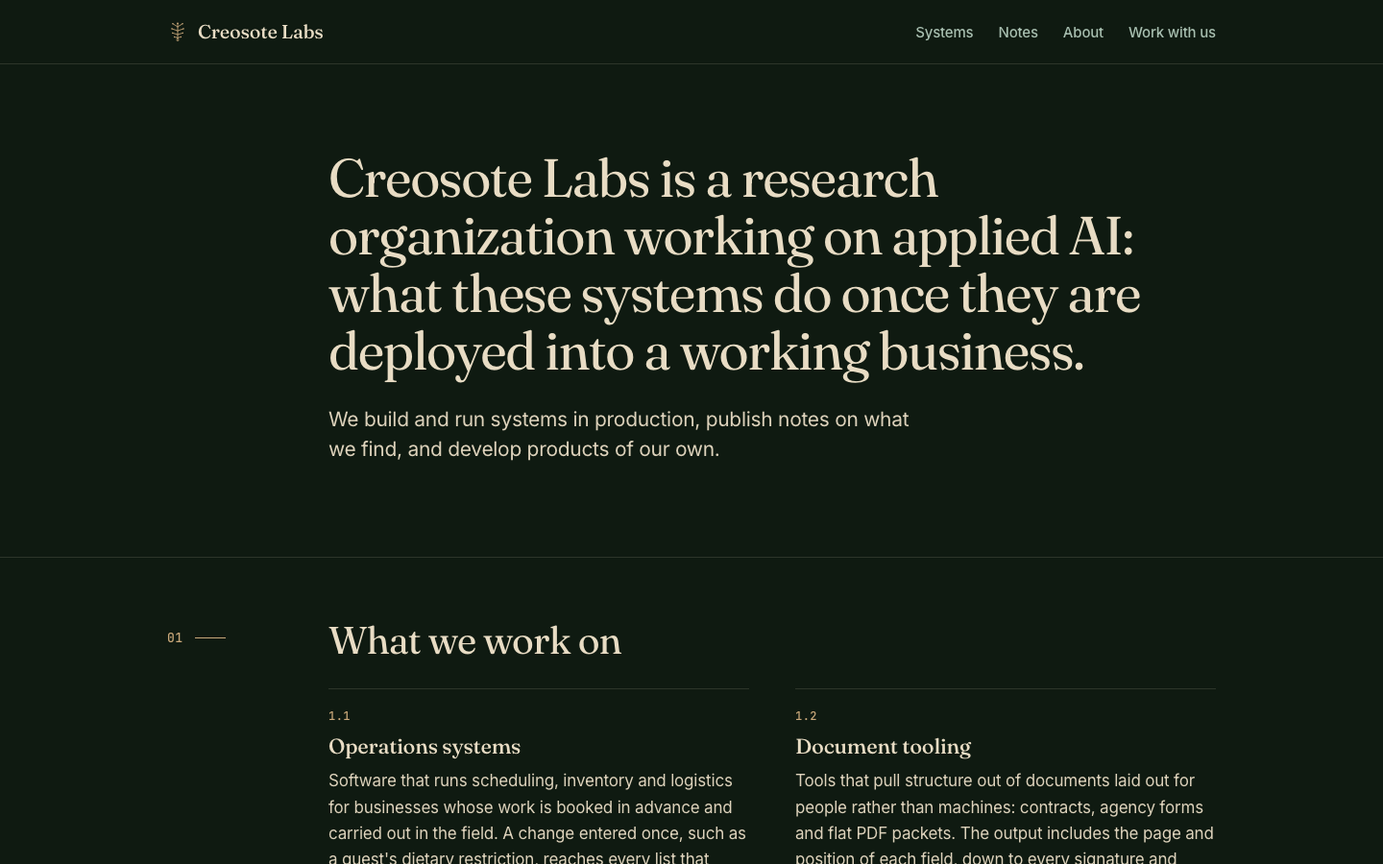
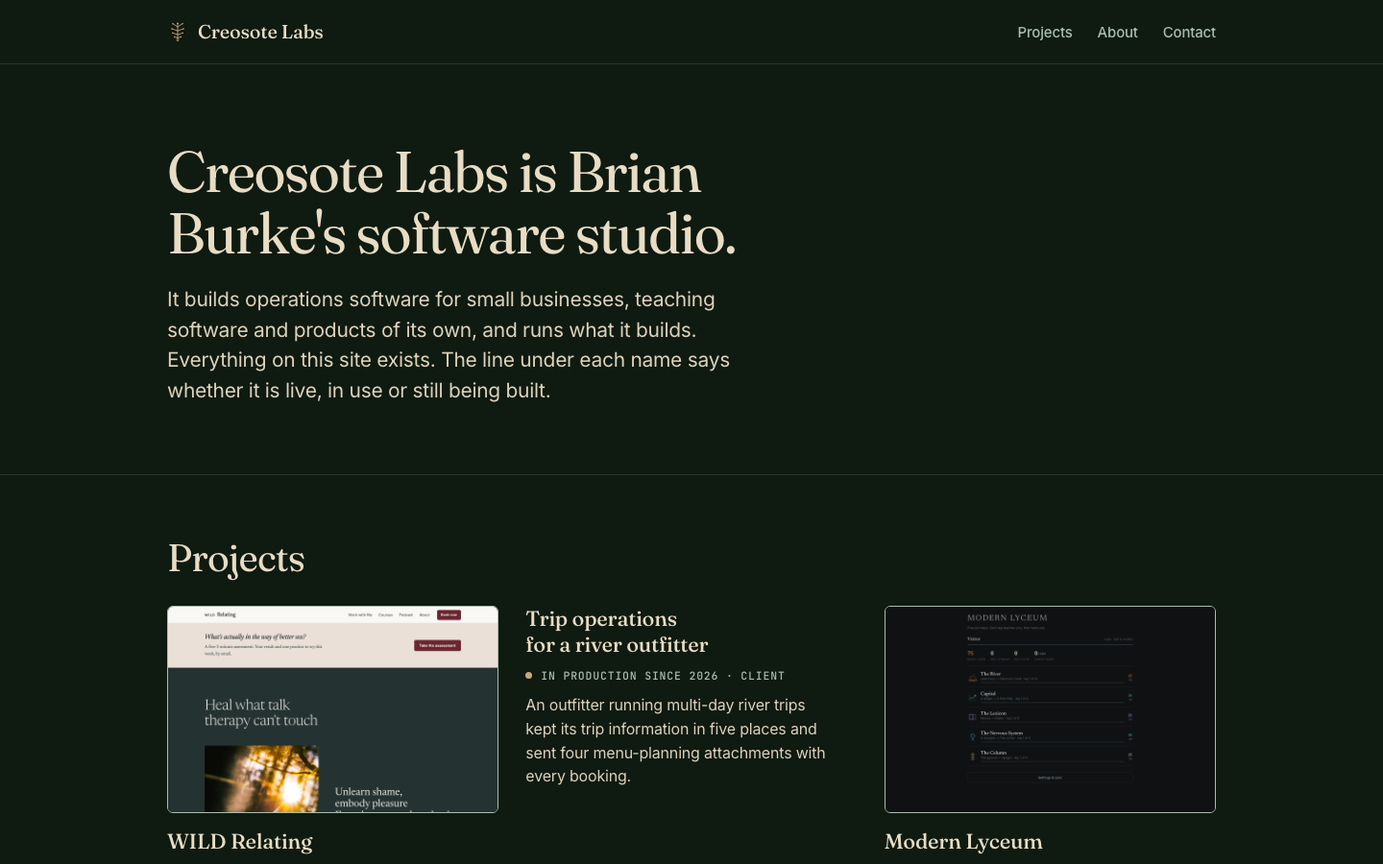
v3: restore the RSI and Scenario descriptions with verified facts, honest WILD Relating status, 900-recipe library, twelve placement exams, featured grid of six with screenshots, new home capture

diff --git a/docs/projects.html b/docs/projects.html
@@ -18,10 +18,10 @@
 <header class="site-header"><div class="wrap bar"><a class="wordmark" href="/creosote-labs-site/" aria-label="Creosote Labs home"><svg viewBox="-120 -120 240 240" aria-hidden="true" focusable="false"><g stroke="currentColor" stroke-width="9" stroke-linecap="round" fill="none"><path d="M0 85.5V-95"/><path d="M0-55-55-90"/><path d="M0-55 55-90"/><path d="M0-10-65-33"/><path d="M0-10 65-33"/><path d="M0 33-57 15"/><path d="M0 33 57 15"/><path d="M0 70-38 60"/><path d="M0 70 38 60"/></g><g fill="currentColor"><circle cx="0" cy="-95" r="10"/><circle cx="-55" cy="-90" r="8"/><circle cx="55" cy="-90" r="8"/><circle cx="-65" cy="-33" r="8"/><circle cx="65" cy="-33" r="8"/><circle cx="-57" cy="15" r="8"/><circle cx="57" cy="15" r="8"/><circle cx="-38" cy="60" r="7"/><circle cx="38" cy="60" r="7"/></g><circle cx="0" cy="95" r="11" fill="none" stroke="currentColor" stroke-width="8"/></svg><span>Creosote Labs</span></a><nav class="nav" aria-label="Main"><a href="/creosote-labs-site/projects.html" aria-current="page">Projects</a><a href="/creosote-labs-site/about.html">About</a><a href="/creosote-labs-site/contact.html">Contact</a></nav></div></header>
 <main id="main">
 <div class="page-title"><div class="wrap"><h1>Projects</h1><p class="lead">Everything Creosote Labs has built, grouped by who it was for. One client is not named until they have agreed to be.</p></div></div>
-<section class="sec" id="for-clients"><div class="wrap"><h2 class="sec-title">For clients</h2><ul class="entries"><li class="entry" id="river-outfitter-operations"><div class="entry-body"><h3>Trip operations for a river outfitter</h3><p class="status">In production since 2026 · client</p><div class="entry-text"><p>An outfitter running multi-day river trips kept its trip information in five places and sent four menu-planning attachments with every booking. Creosote replaced that with one system. Guests plan their trip menu in a web planner built on a 775-recipe library; each menu produces a shopping list ordered by store section and a packing list broken out by camp and storage bin, and a dietary restriction entered once reaches every list. A trip tracker records the due date and the done date of each milestone. Creosote also wrote the staff and new-hire guides, recovered three weeks of lost CRM email through the mail and CRM APIs, and set the office up to produce its own invoices from its existing templates.</p></div><p class="detail">The client&#x27;s name and a reference are available on request.</p></div></li><li class="entry has-shot" id="wild-relating"><img class="shot" src="/creosote-labs-site/media/projects/wild-relating.png" alt="WILD Relating screenshot" width="1440" height="900" loading="lazy" decoding="async"><div class="entry-body"><h3>WILD Relating</h3><p class="status">Live since October 2026 · client</p><div class="entry-text"><p>A sexology practice needed a way to turn podcast listeners into clients. Creosote rebuilt the practice&#x27;s site as one application: an eight-question assessment that sorts each visitor into one of five patterns, an email engine that sends the sequence written for that pattern, courses sold on the same site, and an admin page that lists every contact and every message. It runs on Render, and the owner edits the content in the browser.</p></div><p class="detail">The assessment is the lead magnet; course payments run through Stripe.</p><p class="visit"><a href="https://wild-relating.onrender.com/">wild-relating.onrender.com</a></p></div></li></ul></div></section>
-<section class="sec" id="products"><div class="wrap"><h2 class="sec-title">Products</h2><ul class="entries"><li class="entry has-shot" id="longtable"><img class="shot" src="/creosote-labs-site/media/projects/longtable.png" alt="Longtable screenshot" width="1440" height="900" loading="lazy" decoding="async"><div class="entry-body"><h3>Longtable</h3><p class="status">In development</p><div class="entry-text"><p>Food planning for events where the headcount and the dietary needs keep changing: plated weddings, retreat and lodge kitchens, backcountry expeditions and week-ahead meal prep. The four formats share one recipe library and one menu generator, so changing a single guest&#x27;s restriction regenerates the menu, the shopping list, the packing list and the cost per head together.</p></div><p class="detail">The recipe library is Longtable&#x27;s own.</p></div></li><li class="entry has-shot" id="scenario"><img class="shot" src="/creosote-labs-site/media/projects/scenario.png" alt="Scenario screenshot" width="1440" height="900" loading="lazy" decoding="async"><div class="entry-body"><h3>Scenario</h3><p class="status">In development</p><div class="entry-text"><p>A planning tool for the money decisions with long effects: selling a rental, refinancing, stopping work for a year.</p></div><p class="detail">The comparable software is sold to financial advisors, not to the person making the decision.</p></div></li></ul></div></section>
-<section class="sec" id="teaching-software"><div class="wrap"><h2 class="sec-title">Teaching software</h2><ul class="entries"><li class="entry has-shot" id="the-university"><img class="shot" src="/creosote-labs-site/media/projects/university.png" alt="The University screenshot" width="1440" height="900" loading="lazy" decoding="async"><div class="entry-body"><h3>The University</h3><p class="status">In use since 2026 · private</p><div class="entry-text"><p>A private university for one learner: thirteen courses across history, language, computing, mathematics and the body, each opening with a placement exam. The modules for a course are written after its placement exam, to the level the learner placed at. A grader checks answers, and review is spaced.</p></div><p class="detail">Runs on Render behind a password.</p></div></li><li class="entry has-shot" id="modern-lyceum"><img class="shot" src="/creosote-labs-site/media/projects/modern-lyceum.png" alt="Modern Lyceum screenshot" width="1440" height="900" loading="lazy" decoding="async"><div class="entry-body"><h3>Modern Lyceum</h3><p class="status">Live</p><div class="entry-text"><p>A spaced-repetition study application for adults. Material is organized by subject, each session is built from the items due for review, and an item&#x27;s next review moves further out each time it is answered correctly.</p></div><p class="detail">Installs as a web app and works offline.</p><p class="visit"><a href="https://modern-lyceum.onrender.com/">modern-lyceum.onrender.com</a></p></div></li><li class="entry has-shot" id="rsi-course"><img class="shot" src="/creosote-labs-site/media/projects/rsi-course.png" alt="The RSI Debate, Decoded screenshot" width="1440" height="900" loading="lazy" decoding="async"><div class="entry-body"><h3>The RSI Debate, Decoded</h3><p class="status">2026</p><p class="detail">A static site; the whole course reads offline.</p></div></li><li class="entry has-shot" id="gate-city"><img class="shot" src="/creosote-labs-site/media/projects/gate-city.png" alt="Gate City screenshot" width="1440" height="900" loading="lazy" decoding="async"><div class="entry-body"><h3>Gate City</h3><p class="status">In use</p><div class="entry-text"><p>Two role-playing games for a young reader who reads below grade level: a reading quest and a math game set in the same world. Every line is spoken aloud, and each curriculum starts at the player&#x27;s real ability rather than the grade on paper.</p></div><p class="detail">The two games share a world and never a cast.</p></div></li></ul></div></section>
-<section class="sec" id="tools"><div class="wrap"><h2 class="sec-title">Tools</h2><ul class="entries"><li class="entry" id="sigmap"><div class="entry-body"><h3>sigmap</h3><p class="status">In use</p><div class="entry-text"><p>Real-estate contract packets arrive as flat PDFs with no fillable fields, so every signature and initial line has to be placed by hand before the packet goes out for signing. sigmap finds those lines from the geometry of the page rather than from an image of it, which gives coordinates exact enough to use.</p></div></div></li><li class="entry has-shot" id="southwest-modern"><img class="shot" src="/creosote-labs-site/media/projects/southwest-modern.png" alt="Southwest Modern screenshot" width="1440" height="900" loading="lazy" decoding="async"><div class="entry-body"><h3>Southwest Modern</h3><p class="status">Built 2026</p><div class="entry-text"><p>The website for Brian&#x27;s real-estate brand: a neighborhood-match assessment, sixteen neighborhood guides, two email guides, a home-value request and an admin contact list, on the same engine as WILD Relating.</p></div><p class="detail">The engine is a Flask application with SQLite, Markdown content and Stripe.</p></div></li><li class="entry" id="daily-brief"><div class="entry-body"><h3>Daily Brief</h3><p class="status">In daily use</p><div class="entry-text"><p>A morning page that assembles the day&#x27;s calendar, the mail that needs an answer, the task list and the finances from their APIs. Opening the page is what refreshes it.</p></div></div></li><li class="entry" id="finance-system"><div class="entry-body"><h3>Finance system</h3><p class="status">In daily use</p><div class="entry-text"><p>Bank and card transactions pulled through SimpleFin into one yearly workbook, receipts filed and matched, property-level reporting for a rental portfolio, and a net-worth dashboard.</p></div></div></li><li class="entry" id="clip-pipeline"><div class="entry-body"><h3>Podcast clip pipeline</h3><p class="status">In use</p><div class="entry-text"><p>Turns long podcast episodes into captioned vertical clips: download, transcript, clip plan, render.</p></div></div></li><li class="entry" id="this-site"><div class="entry-body"><h3>This site</h3><p class="status">Live</p><div class="entry-text"><p>Generated from JSON by a Python script with no dependencies, with a browser editor that saves, previews and publishes in one click.</p></div></div></li></ul></div></section>
+<section class="sec" id="for-clients"><div class="wrap"><h2 class="sec-title">For clients</h2><ul class="entries"><li class="entry" id="river-outfitter-operations"><div class="entry-body"><h3>Trip operations for a river outfitter</h3><p class="status">In production since 2026 · client</p><div class="entry-text"><p>An outfitter running multi-day river trips kept its trip information in five places and sent four menu-planning attachments with every booking. Creosote replaced that with one system. Guests plan their trip menu in a web planner built on a library of more than 900 recipes; each menu produces a shopping list ordered by store section and a packing list broken out by camp and storage bin, and a dietary restriction entered once reaches every list. A trip tracker records the due date and the done date of each milestone. Creosote also wrote the staff and new-hire guides, recovered three weeks of lost CRM email through the mail and CRM APIs, and set the office up to produce its own invoices from its existing templates.</p></div><p class="detail">The client&#x27;s name and a reference are available on request.</p></div></li><li class="entry has-shot" id="wild-relating"><img class="shot" src="/creosote-labs-site/media/projects/wild-relating.png" alt="WILD Relating screenshot" width="1440" height="900" loading="lazy" decoding="async"><div class="entry-body"><h3>WILD Relating</h3><p class="status">Live since October 2026 · client</p><div class="entry-text"><p>A sexology practice needed a way to turn podcast listeners into clients. Creosote rebuilt the practice&#x27;s site as one application: an eight-question assessment that sorts each visitor into one of five patterns, an email engine that queues the sequence written for that pattern, a shelf of courses with checkout built in, and an admin page that lists every contact and every message. It runs on Render, and the owner edits the content in the browser.</p></div><p class="detail">The assessment is the lead magnet. Checkout and email delivery switch on with the owner&#x27;s Stripe and sender keys.</p><p class="visit"><a href="https://wild-relating.onrender.com/">wild-relating.onrender.com</a></p></div></li></ul></div></section>
+<section class="sec" id="products"><div class="wrap"><h2 class="sec-title">Products</h2><ul class="entries"><li class="entry has-shot" id="longtable"><img class="shot" src="/creosote-labs-site/media/projects/longtable.png" alt="Longtable screenshot" width="1440" height="900" loading="lazy" decoding="async"><div class="entry-body"><h3>Longtable</h3><p class="status">In development</p><div class="entry-text"><p>Food planning for events where the headcount and the dietary needs keep changing: plated weddings, retreat and lodge kitchens, backcountry expeditions and week-ahead meal prep. The four formats share one recipe library and one menu generator, so changing a single guest&#x27;s restriction regenerates the menu, the shopping list, the packing list and the cost per head together.</p></div><p class="detail">The recipe library is Longtable&#x27;s own.</p></div></li><li class="entry has-shot" id="scenario"><img class="shot" src="/creosote-labs-site/media/projects/scenario.png" alt="Scenario screenshot" width="1440" height="900" loading="lazy" decoding="async"><div class="entry-body"><h3>Scenario</h3><p class="status">In development</p><div class="entry-text"><p>A planning tool for the money decisions with long effects: selling a rental, refinancing, stopping work for a year. Each option is projected years forward on the same measures, net worth, liquid cash, cash flow and the cash low point, and the options sit side by side.</p></div><p class="detail">The comparable software is sold to financial advisors, not to the person making the decision.</p></div></li></ul></div></section>
+<section class="sec" id="teaching-software"><div class="wrap"><h2 class="sec-title">Teaching software</h2><ul class="entries"><li class="entry" id="the-university"><div class="entry-body"><h3>The University</h3><p class="status">In use since 2026 · private</p><div class="entry-text"><p>A private university for one learner: thirteen courses across history, language, computing, mathematics and the body, twelve of them opening with a placement exam. The modules for a course are written after its placement exam, to the level the learner placed at. A grader checks answers, and review is spaced.</p></div><p class="detail">Runs on Render behind a password.</p></div></li><li class="entry has-shot" id="modern-lyceum"><img class="shot" src="/creosote-labs-site/media/projects/modern-lyceum.png" alt="Modern Lyceum screenshot" width="1440" height="900" loading="lazy" decoding="async"><div class="entry-body"><h3>Modern Lyceum</h3><p class="status">Live</p><div class="entry-text"><p>A spaced-repetition study application for adults. Material is organized by subject, each session is built from the items due for review, and an item&#x27;s next review moves further out each time it is answered correctly.</p></div><p class="detail">Installs as a web app and works offline.</p><p class="visit"><a href="https://modern-lyceum.onrender.com/">modern-lyceum.onrender.com</a></p></div></li><li class="entry has-shot" id="rsi-course"><img class="shot" src="/creosote-labs-site/media/projects/rsi-course.png" alt="The RSI Debate, Decoded screenshot" width="1440" height="900" loading="lazy" decoding="async"><div class="entry-body"><h3>The RSI Debate, Decoded</h3><p class="status">2026</p><div class="entry-text"><p>A seventeen-module course built from a single technical conversation about recursive self-improvement in AI, written for readers without a computer-science background.</p></div><p class="detail">A static site; the whole course reads offline.</p></div></li><li class="entry has-shot" id="gate-city"><img class="shot" src="/creosote-labs-site/media/projects/gate-city.png" alt="Gate City screenshot" width="1440" height="900" loading="lazy" decoding="async"><div class="entry-body"><h3>Gate City</h3><p class="status">In use</p><div class="entry-text"><p>Two role-playing games for a young reader who reads below grade level: a reading quest and a math game set in the same world. Every line is spoken aloud, and each curriculum starts at the player&#x27;s real ability rather than the grade on paper.</p></div><p class="detail">The two games share a world and never a cast.</p></div></li></ul></div></section>
+<section class="sec" id="tools"><div class="wrap"><h2 class="sec-title">Tools</h2><ul class="entries"><li class="entry" id="sigmap"><div class="entry-body"><h3>sigmap</h3><p class="status">In use</p><div class="entry-text"><p>Real-estate contract packets arrive as flat PDFs with no fillable fields, so every signature and initial line has to be placed by hand before the packet goes out for signing. sigmap finds those lines from the geometry of the page rather than from an image of it, which gives coordinates exact enough to use.</p></div></div></li><li class="entry has-shot" id="southwest-modern"><img class="shot" src="/creosote-labs-site/media/projects/southwest-modern.png" alt="Southwest Modern screenshot" width="1440" height="900" loading="lazy" decoding="async"><div class="entry-body"><h3>Southwest Modern</h3><p class="status">Built 2026</p><div class="entry-text"><p>The website for Brian&#x27;s real-estate brand: a neighborhood-match assessment, sixteen neighborhood guides, two email guides, a home-value request and an admin contact list, on the same engine as WILD Relating.</p></div><p class="detail">The engine is a Flask application with SQLite, Markdown content and Stripe.</p></div></li><li class="entry" id="daily-brief"><div class="entry-body"><h3>Daily Brief</h3><p class="status">In daily use</p><div class="entry-text"><p>A morning page that assembles the day&#x27;s calendar, the mail that needs an answer, the task list and the finances from their APIs. Opening the page is what refreshes it.</p></div></div></li><li class="entry" id="finance-system"><div class="entry-body"><h3>Finance system</h3><p class="status">In daily use</p><div class="entry-text"><p>Bank and card transactions pulled through SimpleFin into one yearly workbook, receipts filed and matched, property-level reporting for a rental portfolio, and a net-worth dashboard.</p></div></div></li><li class="entry" id="clip-pipeline"><div class="entry-body"><h3>Podcast clip pipeline</h3><p class="status">In use</p><div class="entry-text"><p>Turns long podcast episodes into captioned vertical clips: download, transcript, clip plan, render.</p></div></div></li><li class="entry has-shot" id="this-site"><img class="shot" src="/creosote-labs-site/media/projects/creosote-site.png" alt="This site screenshot" width="1440" height="900" loading="lazy" decoding="async"><div class="entry-body"><h3>This site</h3><p class="status">Live</p><div class="entry-text"><p>Generated from JSON by a Python script with no dependencies, with a browser editor that saves, previews and publishes in one click.</p></div></div></li></ul></div></section>
 </main>
 <footer class="site-footer"><div class="wrap foot"><p class="foot-line"><svg viewBox="-120 -120 240 240" aria-hidden="true" focusable="false"><g stroke="currentColor" stroke-width="9" stroke-linecap="round" fill="none"><path d="M0 85.5V-95"/><path d="M0-55-55-90"/><path d="M0-55 55-90"/><path d="M0-10-65-33"/><path d="M0-10 65-33"/><path d="M0 33-57 15"/><path d="M0 33 57 15"/><path d="M0 70-38 60"/><path d="M0 70 38 60"/></g><g fill="currentColor"><circle cx="0" cy="-95" r="10"/><circle cx="-55" cy="-90" r="8"/><circle cx="55" cy="-90" r="8"/><circle cx="-65" cy="-33" r="8"/><circle cx="65" cy="-33" r="8"/><circle cx="-57" cy="15" r="8"/><circle cx="57" cy="15" r="8"/><circle cx="-38" cy="60" r="7"/><circle cx="38" cy="60" r="7"/></g><circle cx="0" cy="95" r="11" fill="none" stroke="currentColor" stroke-width="8"/></svg><span>Creosote Labs · Brian Burke · <a href="mailto:brian@brianburke.net">brian@brianburke.net</a></span></p><nav class="foot-nav" aria-label="Footer"><a href="/creosote-labs-site/projects.html">Projects</a><a href="/creosote-labs-site/about.html">About</a><a href="/creosote-labs-site/contact.html">Contact</a></nav></div></footer>
 <script src="/creosote-labs-site/site.js"></script>

diff --git a/docs/index.html b/docs/index.html
@@ -18,7 +18,7 @@
 <header class="site-header"><div class="wrap bar"><a class="wordmark" href="/creosote-labs-site/" aria-label="Creosote Labs home"><svg viewBox="-120 -120 240 240" aria-hidden="true" focusable="false"><g stroke="currentColor" stroke-width="9" stroke-linecap="round" fill="none"><path d="M0 85.5V-95"/><path d="M0-55-55-90"/><path d="M0-55 55-90"/><path d="M0-10-65-33"/><path d="M0-10 65-33"/><path d="M0 33-57 15"/><path d="M0 33 57 15"/><path d="M0 70-38 60"/><path d="M0 70 38 60"/></g><g fill="currentColor"><circle cx="0" cy="-95" r="10"/><circle cx="-55" cy="-90" r="8"/><circle cx="55" cy="-90" r="8"/><circle cx="-65" cy="-33" r="8"/><circle cx="65" cy="-33" r="8"/><circle cx="-57" cy="15" r="8"/><circle cx="57" cy="15" r="8"/><circle cx="-38" cy="60" r="7"/><circle cx="38" cy="60" r="7"/></g><circle cx="0" cy="95" r="11" fill="none" stroke="currentColor" stroke-width="8"/></svg><span>Creosote Labs</span></a><nav class="nav" aria-label="Main"><a href="/creosote-labs-site/projects.html">Projects</a><a href="/creosote-labs-site/about.html">About</a><a href="/creosote-labs-site/contact.html">Contact</a></nav></div></header>
 <main id="main">
 <section class="hero"><div class="wrap"><h1>Creosote Labs is Brian Burke&#x27;s software studio.</h1><p class="lead">It builds operations software for small businesses, teaching software and products of its own, and runs what it builds. Everything on this site exists. The line under each name says whether it is live, in use or still being built.</p></div></section>
-<section class="sec" id="projects"><div class="wrap"><h2 class="sec-title">Projects</h2><ul class="tiles"><li class="tile"><img class="shot" src="/creosote-labs-site/media/projects/wild-relating.png" alt="WILD Relating screenshot" width="1440" height="900" loading="lazy" decoding="async"><h3><a href="/creosote-labs-site/projects.html#wild-relating">WILD Relating</a></h3><p class="status">Live since October 2026 · client</p><p class="summary">A sexology practice needed a way to turn podcast listeners into clients.</p></li><li class="tile"><h3><a href="/creosote-labs-site/projects.html#river-outfitter-operations">Trip operations for a river outfitter</a></h3><p class="status">In production since 2026 · client</p><p class="summary">An outfitter running multi-day river trips kept its trip information in five places and sent four menu-planning attachments with every booking.</p></li><li class="tile"><img class="shot" src="/creosote-labs-site/media/projects/modern-lyceum.png" alt="Modern Lyceum screenshot" width="1440" height="900" loading="lazy" decoding="async"><h3><a href="/creosote-labs-site/projects.html#modern-lyceum">Modern Lyceum</a></h3><p class="status">Live</p><p class="summary">A spaced-repetition study application for adults.</p></li><li class="tile"><img class="shot" src="/creosote-labs-site/media/projects/university.png" alt="The University screenshot" width="1440" height="900" loading="lazy" decoding="async"><h3><a href="/creosote-labs-site/projects.html#the-university">The University</a></h3><p class="status">In use since 2026 · private</p><p class="summary">A private university for one learner: thirteen courses across history, language, computing, mathematics and the body, each opening with a placement exam.</p></li><li class="tile"><img class="shot" src="/creosote-labs-site/media/projects/southwest-modern.png" alt="Southwest Modern screenshot" width="1440" height="900" loading="lazy" decoding="async"><h3><a href="/creosote-labs-site/projects.html#southwest-modern">Southwest Modern</a></h3><p class="status">Built 2026</p><p class="summary">The website for Brian&#x27;s real-estate brand: a neighborhood-match assessment, sixteen neighborhood guides, two email guides, a home-value request and an admin contact list, on the same engine as WILD Relating.</p></li><li class="tile"><img class="shot" src="/creosote-labs-site/media/projects/longtable.png" alt="Longtable screenshot" width="1440" height="900" loading="lazy" decoding="async"><h3><a href="/creosote-labs-site/projects.html#longtable">Longtable</a></h3><p class="status">In development</p><p class="summary">Food planning for events where the headcount and the dietary needs keep changing: plated weddings, retreat and lodge kitchens, backcountry expeditions and week-ahead meal prep.</p></li></ul><p class="more-link"><a href="/creosote-labs-site/projects.html">All projects</a></p></div></section>
+<section class="sec" id="projects"><div class="wrap"><h2 class="sec-title">Projects</h2><ul class="tiles"><li class="tile"><img class="shot" src="/creosote-labs-site/media/projects/wild-relating.png" alt="WILD Relating screenshot" width="1440" height="900" loading="lazy" decoding="async"><h3><a href="/creosote-labs-site/projects.html#wild-relating">WILD Relating</a></h3><p class="status">Live since October 2026 · client</p><p class="summary">A sexology practice needed a way to turn podcast listeners into clients.</p></li><li class="tile"><img class="shot" src="/creosote-labs-site/media/projects/longtable.png" alt="Longtable screenshot" width="1440" height="900" loading="lazy" decoding="async"><h3><a href="/creosote-labs-site/projects.html#longtable">Longtable</a></h3><p class="status">In development</p><p class="summary">Food planning for events where the headcount and the dietary needs keep changing: plated weddings, retreat and lodge kitchens, backcountry expeditions and week-ahead meal prep.</p></li><li class="tile"><img class="shot" src="/creosote-labs-site/media/projects/modern-lyceum.png" alt="Modern Lyceum screenshot" width="1440" height="900" loading="lazy" decoding="async"><h3><a href="/creosote-labs-site/projects.html#modern-lyceum">Modern Lyceum</a></h3><p class="status">Live</p><p class="summary">A spaced-repetition study application for adults.</p></li><li class="tile"><img class="shot" src="/creosote-labs-site/media/projects/scenario.png" alt="Scenario screenshot" width="1440" height="900" loading="lazy" decoding="async"><h3><a href="/creosote-labs-site/projects.html#scenario">Scenario</a></h3><p class="status">In development</p><p class="summary">A planning tool for the money decisions with long effects: selling a rental, refinancing, stopping work for a year.</p></li><li class="tile"><img class="shot" src="/creosote-labs-site/media/projects/southwest-modern.png" alt="Southwest Modern screenshot" width="1440" height="900" loading="lazy" decoding="async"><h3><a href="/creosote-labs-site/projects.html#southwest-modern">Southwest Modern</a></h3><p class="status">Built 2026</p><p class="summary">The website for Brian&#x27;s real-estate brand: a neighborhood-match assessment, sixteen neighborhood guides, two email guides, a home-value request and an admin contact list, on the same engine as WILD Relating.</p></li><li class="tile"><img class="shot" src="/creosote-labs-site/media/projects/gate-city.png" alt="Gate City screenshot" width="1440" height="900" loading="lazy" decoding="async"><h3><a href="/creosote-labs-site/projects.html#gate-city">Gate City</a></h3><p class="status">In use</p><p class="summary">Two role-playing games for a young reader who reads below grade level: a reading quest and a math game set in the same world.</p></li></ul><p class="more-link"><a href="/creosote-labs-site/projects.html">All projects</a></p></div></section>
 <section class="sec" id="about"><div class="wrap"><h2 class="sec-title">About</h2><div class="prose"><p>Brian Burke ran operations as chief operating officer of a venture-backed Silicon Valley startup, taught adults for a decade, and is a licensed real-estate agent. He started Creosote Labs in 2026 and builds with AI coding tools.</p></div><p class="more-link"><a href="/creosote-labs-site/about.html">More about Brian</a></p></div></section>
 <section class="sec band" id="contact"><div class="wrap"><h2 class="sec-title">Contact</h2><div class="prose"><p>To talk about a project, write to <a href="mailto:brian@brianburke.net">brian@brianburke.net</a>.</p></div></div></section>
 </main>
